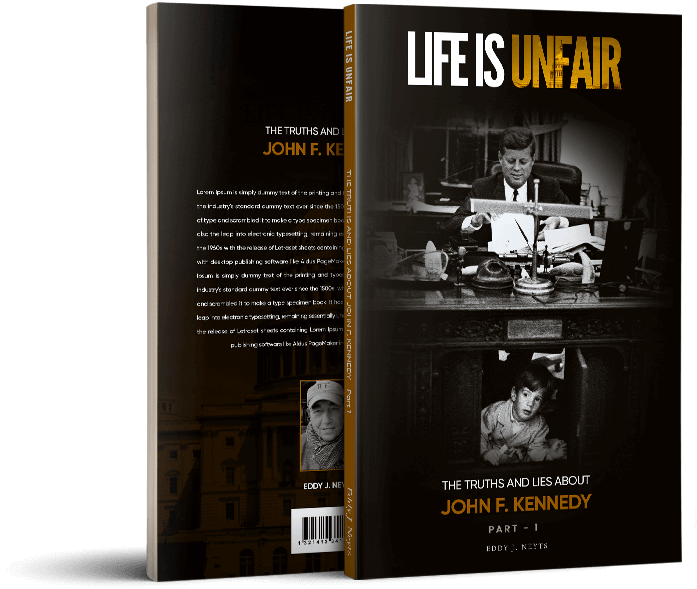
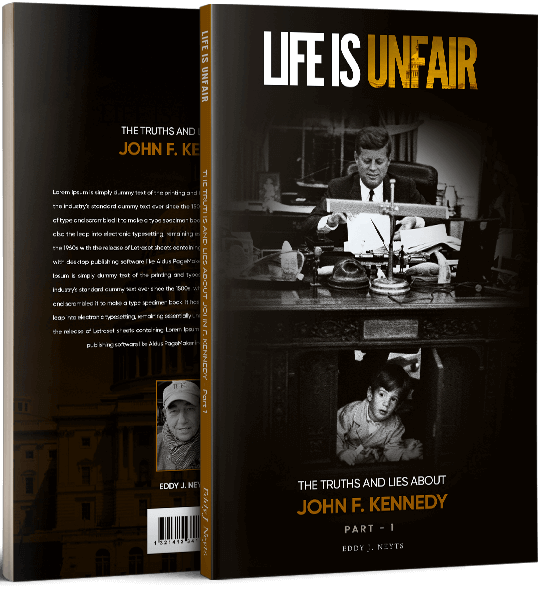
responsive

diff --git a/publish-your-book-now-2/assets/lp/self-publishing/css/custom.min.css b/publish-your-book-now-2/assets/lp/self-publishing/css/custom.min.css
@@ -1810,7 +1810,7 @@ section.helpingSec h6 {
 }
 
 figure.sideform_img_wrap{
-    transform: translateX(-90px);
+    /* transform: translateX(-90px); */
 }
 
 .sec {
